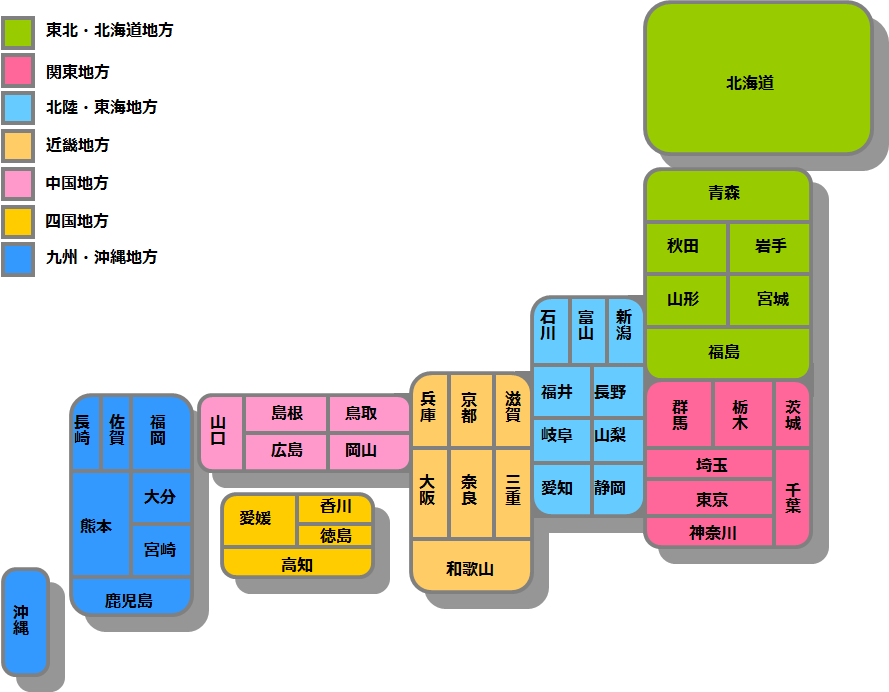
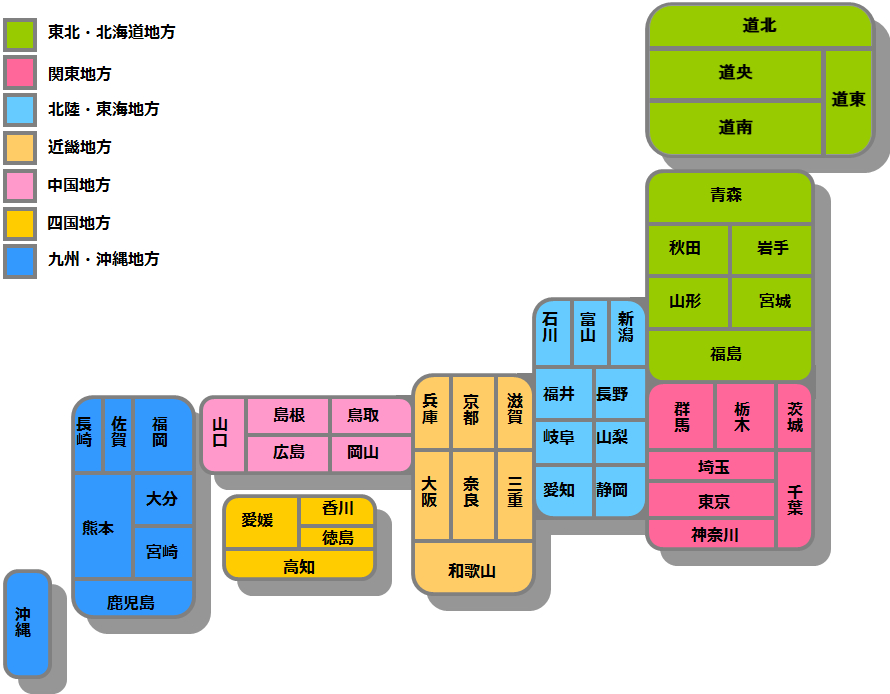
[update] #12 都道府県情報を別jsに分離
・都道府県情報を別jsに分離
・画像を差し替え
・座標計算を一部修正

diff --git a/20170223_20170316/team3/フェーズ2/city_select/js/city-select.js b/20170223_20170316/team3/フェーズ2/city_select/js/city-select.js
@@ -1,68 +1,6 @@
 $(function () {
     "use strict"
 
-    var prefectures = [
-        {
-            name: '青森県',
-            left: 644,
-            top: 167,
-            right: 812,
-            bottom: 221,
-            city: [
-                {
-                    name: '青森',
-                    id: '020010'
-                },
-                {
-                    name: 'むつ',
-                    id: '020020'
-                },
-                {
-                    name: '八戸',
-                    id: '020030'
-                }
-            ]
-        },
-        {
-            name: '岩手県',
-            left: 728,
-            top: 222,
-            right: 812,
-            bottom: 274,
-            city: [
-                {
-                    name: '盛岡',
-                    id: '030010'
-                },
-                {
-                    name: '宮古',
-                    id: '030020'
-                },
-                {
-                    name: '大船渡',
-                    id: '030030'
-                }
-            ]
-        },
-        {
-            name: '宮城県',
-            left: 728,
-            top: 275,
-            right: 812,
-            bottom: 326,
-            city: [
-                {
-                    name: '仙台',
-                    id: '040010'
-                },
-                {
-                    name: '白石',
-                    id: '040020'
-                }
-            ]
-        }
-    ];
-
     var orgImgSize = {
         width: undefined,
         height: undefined
@@ -137,7 +75,7 @@ $(function () {
         button.append(" <span class='caret'></span>")
     }
 
-    $('#jp_map').click(function (e) {
+    $('#jp_map').on('click', function (e) {
         var isShowMenu = false;
         var pref = getPrefectureFromMap(e, true);
         if (pref != null && pref.length > 0) {
@@ -157,8 +95,15 @@ $(function () {
         }
     });
 
-    $('#jp_map').mousemove(function (e) {
-        //var pref = getPrefectureFromMap(e);
+    $('#jp_map').on('mousemove', function (e) {
+        var pref = getPrefectureFromMap(e);
+        if (pref != null && pref.length > 0) {
+            var ctx = $('#highlight')[0].getContext('2d');
+            ctx.beginPath();
+            ctx.fillStyle = "rgba(" + [255, 255, 255, 1] + ")";
+            ctx.fillRect(pref[0].left, pref[0].top,
+                pref[0].right - pref[0].left + 1, pref[0].bottom - pref[0].top + 1);
+        }
     });
 
     $('#tenki-prefList').on('click', 'li a', function () {

diff --git a/20170223_20170316/team3/フェーズ2/city_select/phase2.html b/20170223_20170316/team3/フェーズ2/city_select/phase2.html
@@ -4,11 +4,12 @@
 <head>
     <meta charset="utf-8">
     <meta name="viewport" content="width=device-width, initial-scale=1.0">
-    <link rel="stylesheet" href="./bootstrap/css/bootstrap.min.css"/>
-    <link rel="stylesheet" href="./css/city-select.css"/>
-    <script type="text/javascript" src="./jquery/js/jquery-3.1.1.min.js"></script>
-    <script type="text/javascript" src="./bootstrap/js/bootstrap.min.js"></script>
-    <script type="text/javascript" src="./js/city-select.js"></script>
+    <link rel="stylesheet" href="./bootstrap/css/bootstrap.min.css?v=3.3.7"/>
+    <link rel="stylesheet" href="./css/city-select.css?v=1.0.0"/>
+    <script type="text/javascript" src="./jquery/js/jquery-3.1.1.min.js?v=3.1.1"></script>
+    <script type="text/javascript" src="./bootstrap/js/bootstrap.min.js?v=3.3.7"></script>
+    <script type="text/javascript" src="./js/prefecture.js?v=1.0.0"></script>
+    <script type="text/javascript" src="./js/city-select.js?v=1.0.0"></script>
     <title>天気</title>
 </head>
 
@@ -16,8 +17,9 @@
     <div>
         <p id="mousep"></p>
     </div>
-    <div>
-        <canvas id="jp_map"></canvas>
+    <div id="map">
+        <canvas class="mapCanvas" id="jp_map"></canvas>
+        <!--<canvas class="mapCanvas" id="highlight"></canvas>-->
         <ul id="contextMenu" class="dropdown-menu" role="menu">
         </ul>
     </div>

diff --git a/20170223_20170316/team3/フェーズ2/city_select/js/prefecture.js b/20170223_20170316/team3/フェーズ2/city_select/js/prefecture.js
@@ -1,0 +1,61 @@
+var prefectures = [
+    {
+        name: '青森県',
+        left: 644,
+        top: 167,
+        right: 812,
+        bottom: 221,
+        city: [
+            {
+                name: '青森',
+                id: '020010'
+            },
+            {
+                name: 'むつ',
+                id: '020020'
+            },
+            {
+                name: '八戸',
+                id: '020030'
+            }
+        ]
+    },
+    {
+        name: '岩手県',
+        left: 728,
+        top: 222,
+        right: 812,
+        bottom: 274,
+        city: [
+            {
+                name: '盛岡',
+                id: '030010'
+            },
+            {
+                name: '宮古',
+                id: '030020'
+            },
+            {
+                name: '大船渡',
+                id: '030030'
+            }
+        ]
+    },
+    {
+        name: '宮城県',
+        left: 728,
+        top: 275,
+        right: 812,
+        bottom: 326,
+        city: [
+            {
+                name: '仙台',
+                id: '040010'
+            },
+            {
+                name: '白石',
+                id: '040020'
+            }
+        ]
+    }
+];

diff --git a/20170223_20170316/team3/フェーズ2/city_select/css/city-select.css b/20170223_20170316/team3/フェーズ2/city_select/css/city-select.css
@@ -1,6 +1,6 @@
-#jp_map {
+.mapCanvas {
     box-sizing: border-box;
-    max-width: 889px;
+    max-width: 890px;
     width: 100%;
     height: auto;
 }
